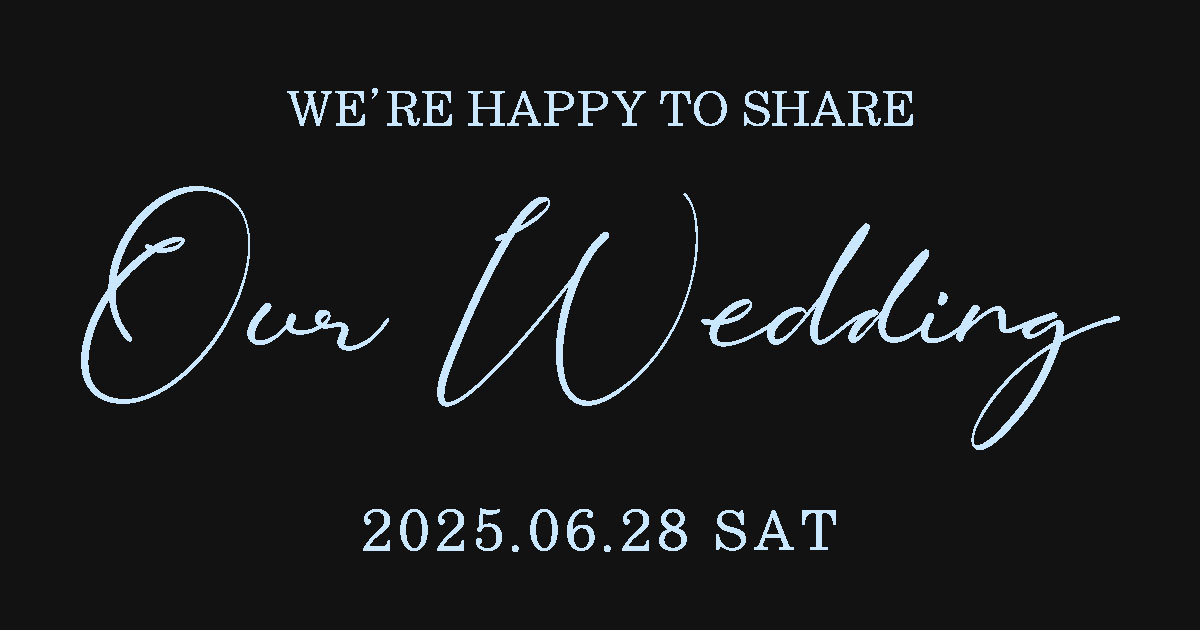
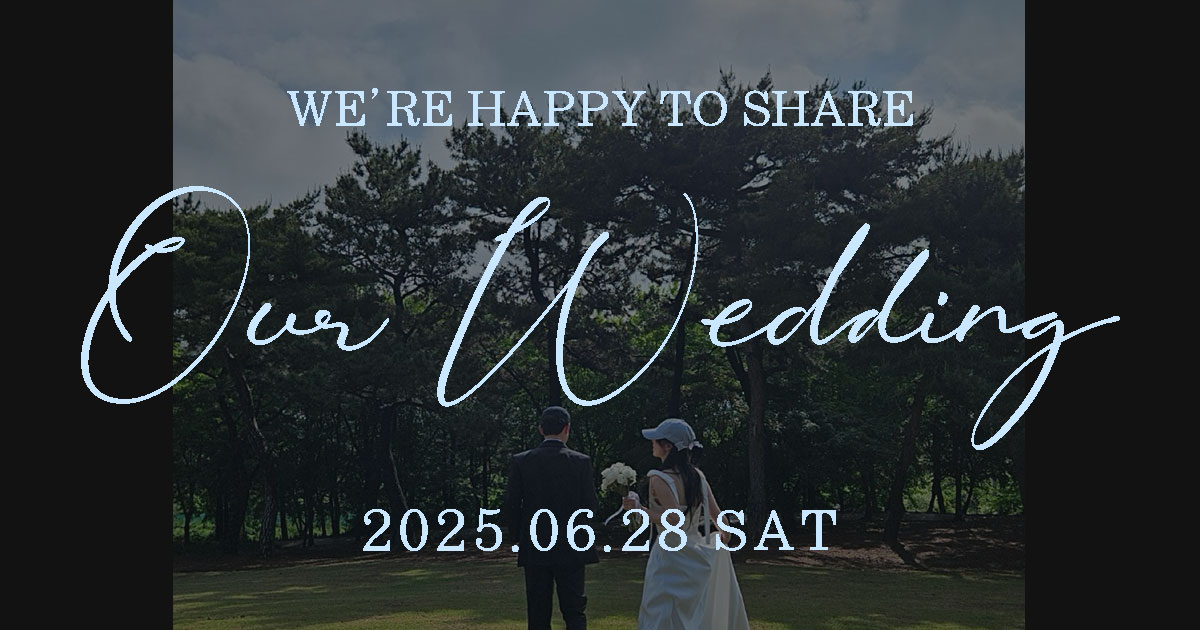
Add files via upload

diff --git a/sunghunheeae/js/js.js b/sunghunheeae/js/js.js
@@ -36,7 +36,7 @@ function shareKakao() {
     content: {
       title: '성훈 & 희애, 결혼 소식을 전합니다 💍',
       description: '2025.06.28 SAT',
-      imageUrl: 'https://hheeaaee.github.io/sunghunheeae/image/kakaothumb.jpg', // 공유 이미지
+      imageUrl: 'https://hheeaaee.github.io/sunghunheeae/image/kakaothumb.png', // 공유 이미지
       link: {
         mobileWebUrl: window.location.href,
         webUrl: window.location.href
